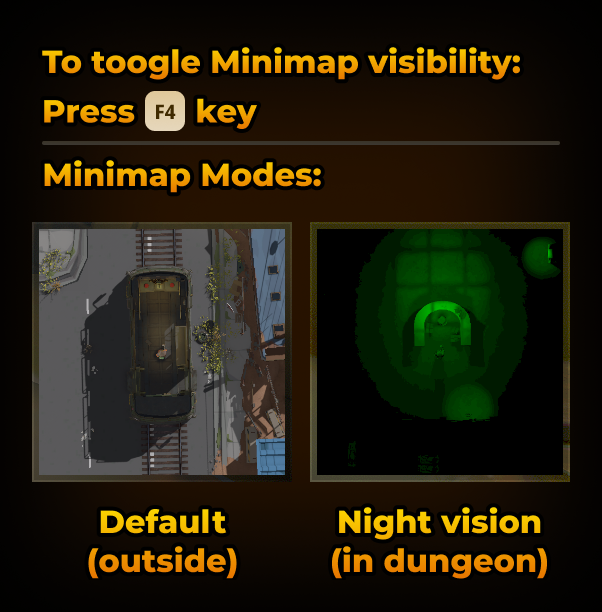
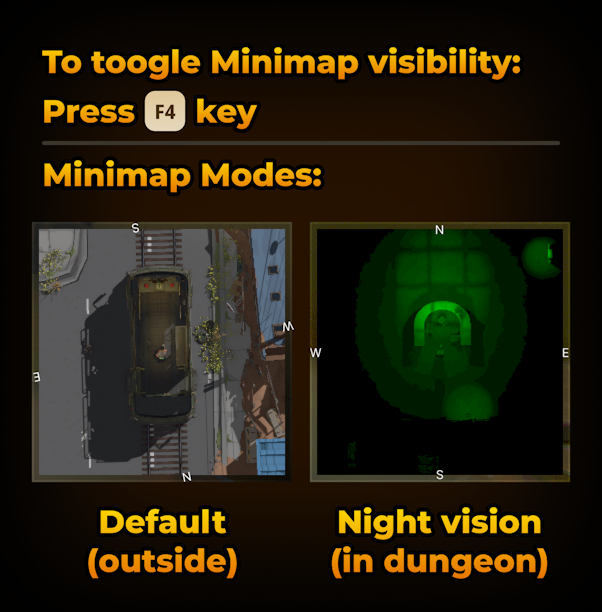
chore: Updated version

diff --git a/Compass.cs b/Compass.cs
@@ -1,12 +1,11 @@
-using MelonLoader;
-using Mimic.Actors;
+using Mimic.Actors;
+using Minimap.API;
 using UnityEngine;
-using UnityEngine.InputSystem;
 using UnityEngine.UI;
 
-namespace Minimap.API
+namespace Minimap
 {
-    internal class CompassAPI
+    internal class Compass
     {
         private List<Vector3> teleporterPositions = new List<Vector3>();
         private GameObject compassObj;
@@ -21,7 +20,7 @@ namespace Minimap.API
         {
             if (compassObj != null)
             {
-                GameObject.Destroy(compassObj);
+                UnityEngine.Object.Destroy(compassObj);
                 compassObj = null;
                 northText = eastText = southText = westText = null;
             }
@@ -117,7 +116,7 @@ namespace Minimap.API
             float halfH = (h + heightOffset) / 2f - margin;
             float absDx = Mathf.Abs(dx);
             float absDy = Mathf.Abs(dy);
-            float scale = (absDx * halfH > absDy * halfW) ? halfW / absDx : halfH / absDy;
+            float scale = absDx * halfH > absDy * halfW ? halfW / absDx : halfH / absDy;
             return new Vector2(dx * scale, dy * scale) + offset;
         }
 

diff --git a/Core.cs b/Core.cs
@@ -7,7 +7,7 @@ using System.Collections;
 using Minimap.API;
 using Mimic.Actors;
 
-[assembly: MelonInfo(typeof(MiniMap.Core), "MiniMap", "1.0.3", "ToxesFoxes", null)]
+[assembly: MelonInfo(typeof(MiniMap.Core), "MiniMap", "1.0.4", "ToxesFoxes", null)]
 [assembly: MelonGame("ReLUGames", "MIMESIS")]
 
 namespace MiniMap
@@ -30,7 +30,7 @@ namespace MiniMap
         private static float nearClipPlane = 1f; // Смещение ближней части камеры
         private static float farClipPlane = 20f; // Смещение дальней части камеры
 
-        private static CompassAPI compass = new CompassAPI();
+        private static readonly Minimap.Compass compass = new();
 
         public override void OnInitializeMelon()
         {
